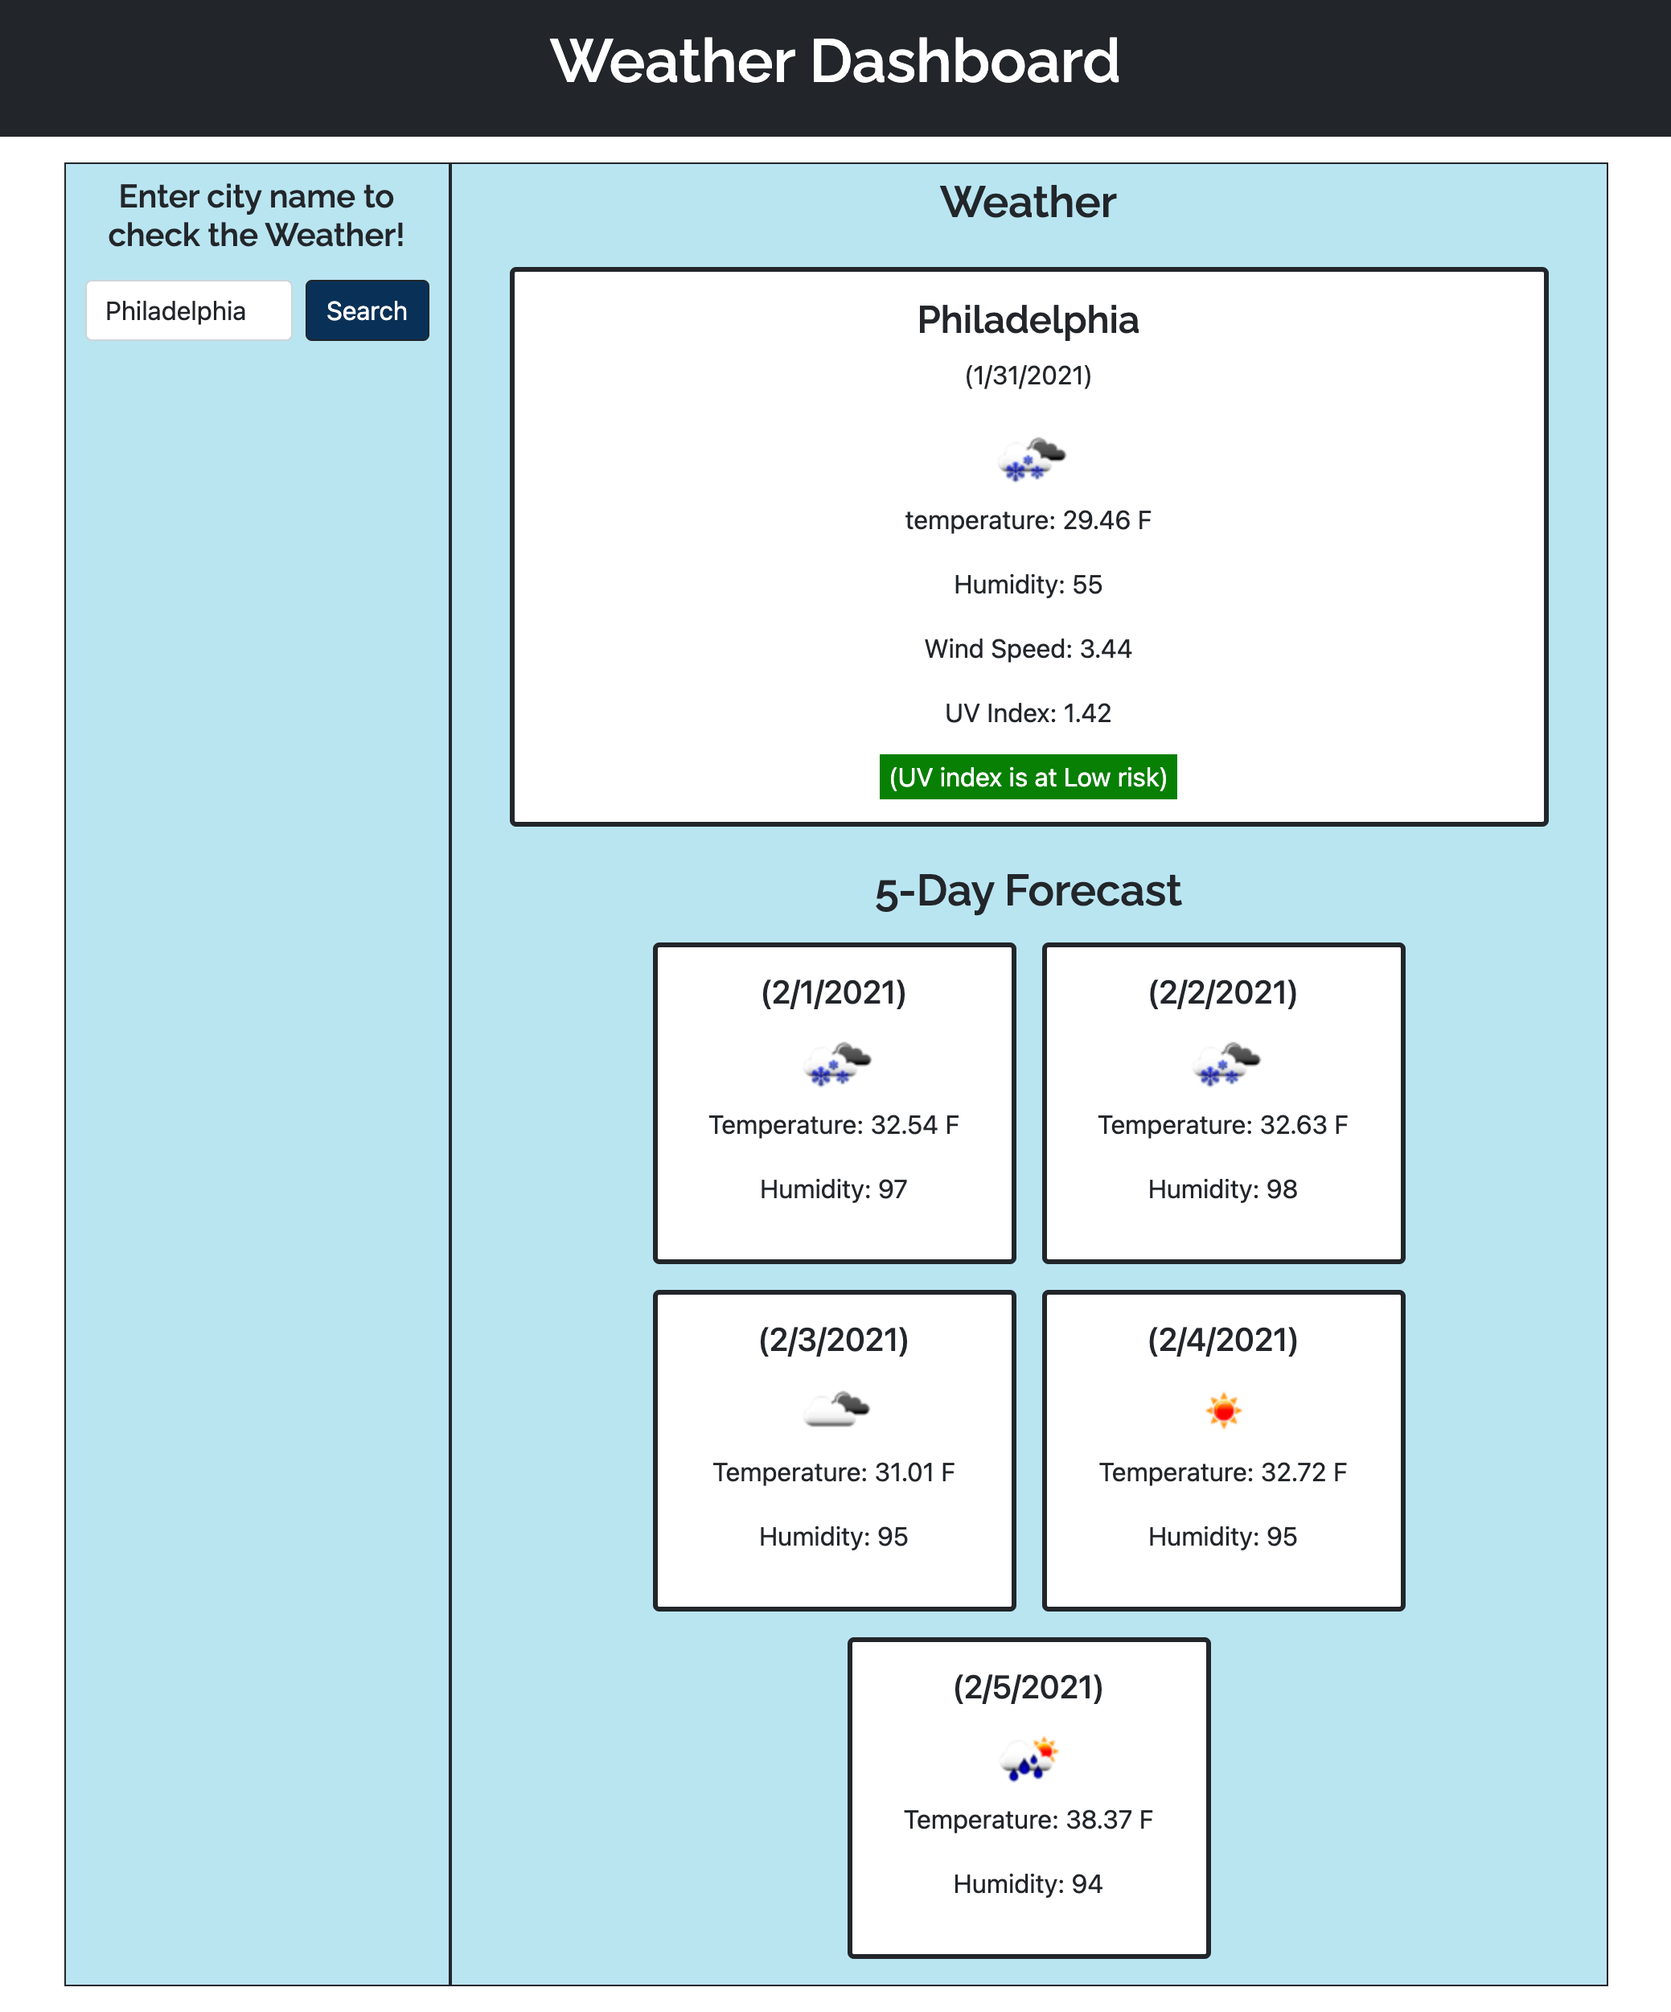
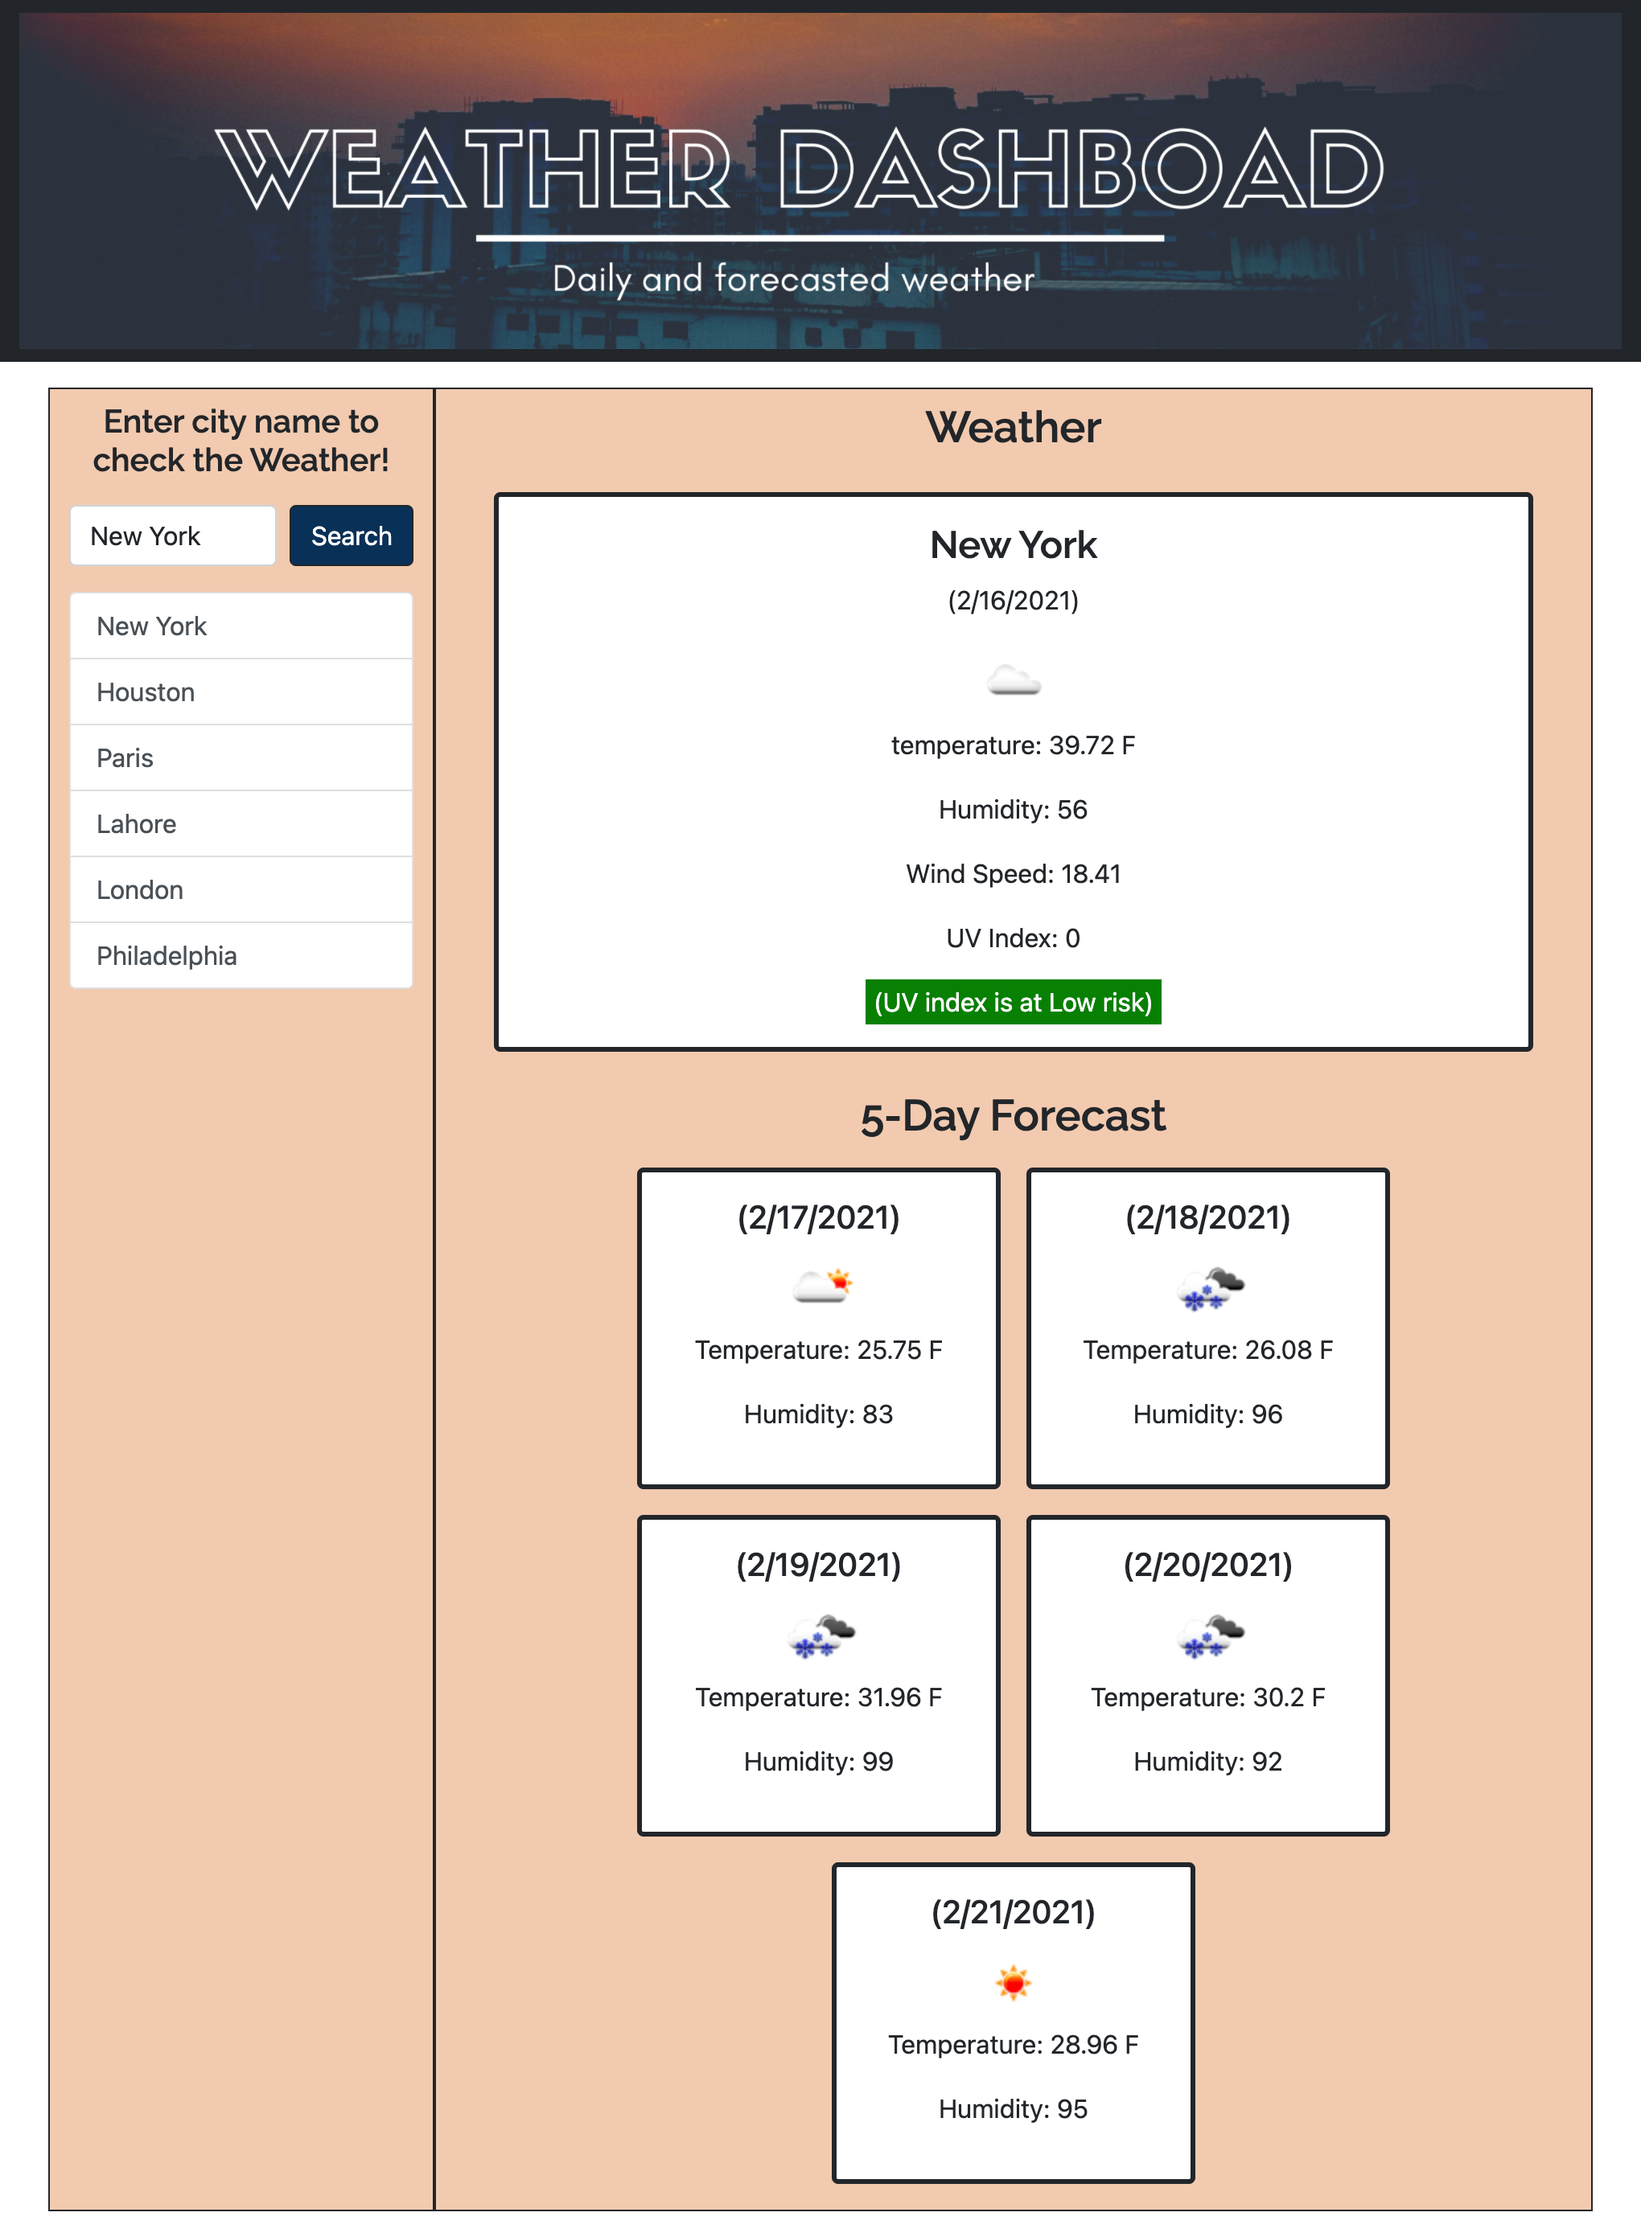
updated UI, added header, changed images in readme

diff --git a/index.html b/index.html
@@ -16,7 +16,7 @@
         <header>
             <nav class="navbar navbar-dark bg-dark">
                 <section class="container-fluid justify-content-center">
-                  <h1 class="navbar-text text-white myH1 text-center">Weather Dashboard</h1>
+                  <img src="./images/header.png" alt="header-image" class="img-fluid w-100">
                 </section>
               </nav>
         </header>

diff --git a/css/style.css b/css/style.css
@@ -3,7 +3,7 @@
 }
 
 .searchSection, .displaySection {
-    background-color: rgb(185, 228, 241);
+    background-color: rgb(243, 201, 174);
 }
 
 .myBtn {
@@ -12,8 +12,7 @@
 }
 
 .myBtn:hover {
-    background-color: rgb(128, 189, 207);
-    color: black;
+    background-color: rgb(8, 8, 8);
 }
 
 .lowUv {
@@ -36,4 +35,5 @@
 .hidden {
     display: none;
 }
+
 

diff --git a/README.md b/README.md
@@ -20,8 +20,6 @@ Attached are images of the weather dashboard UI:
 
 ![weather-dashboard-demo2](images/demo2.png)
 
-![weather-dashboard-demo3](images/demo3.png)
-
 Attached is a link to the GitHib repository for the project:
 https://github.com/nidaqg/weather-dashboard 
 
